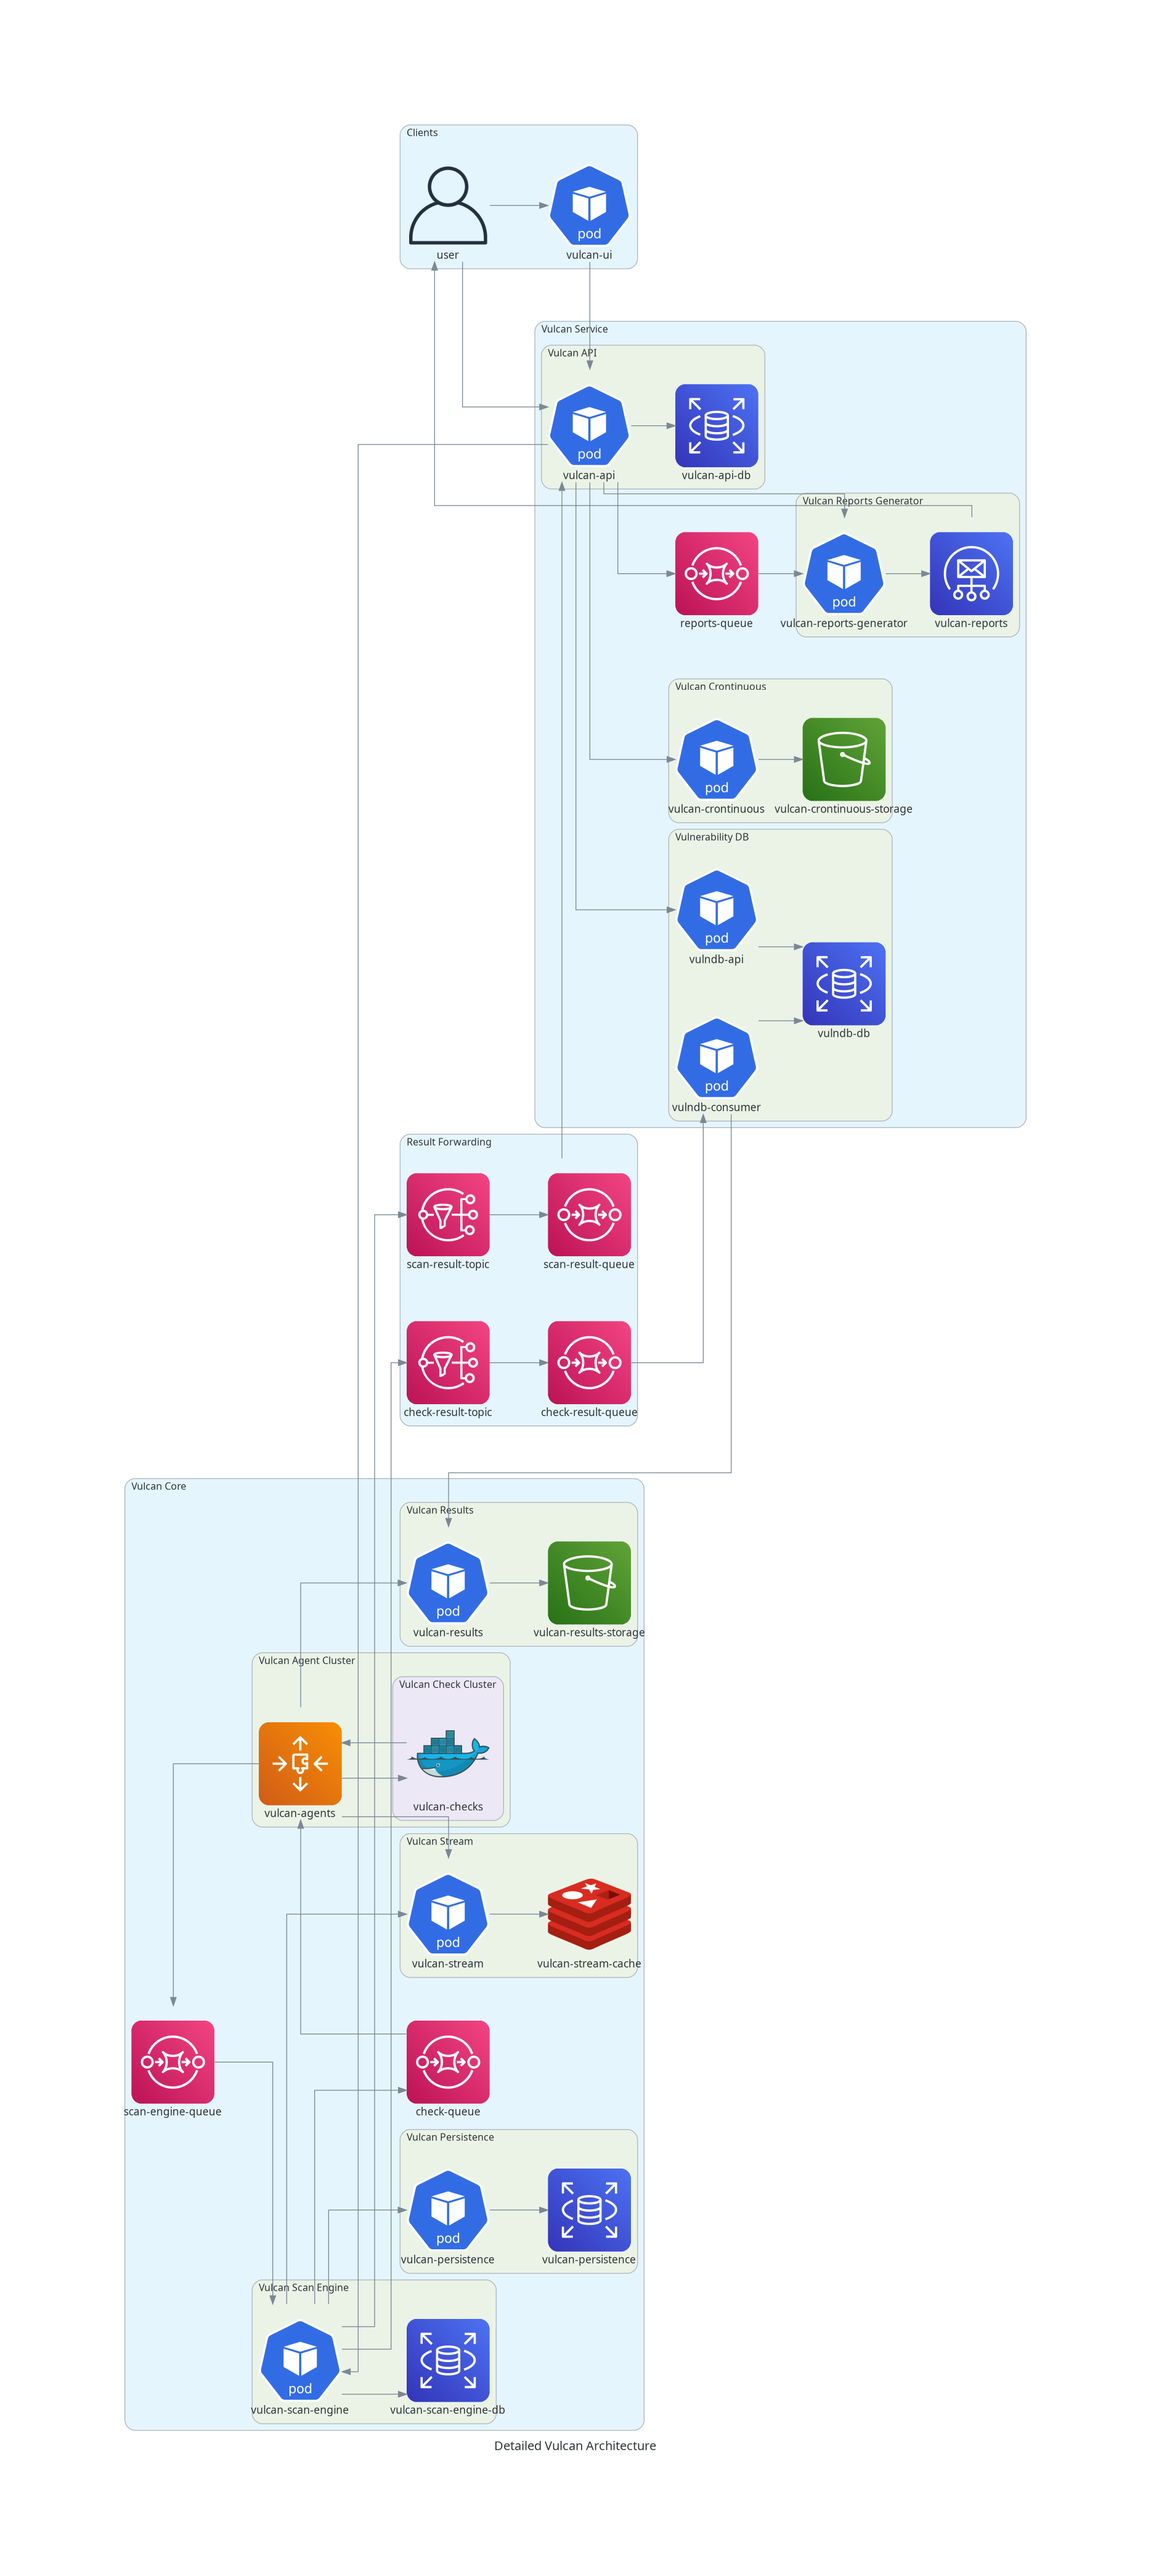
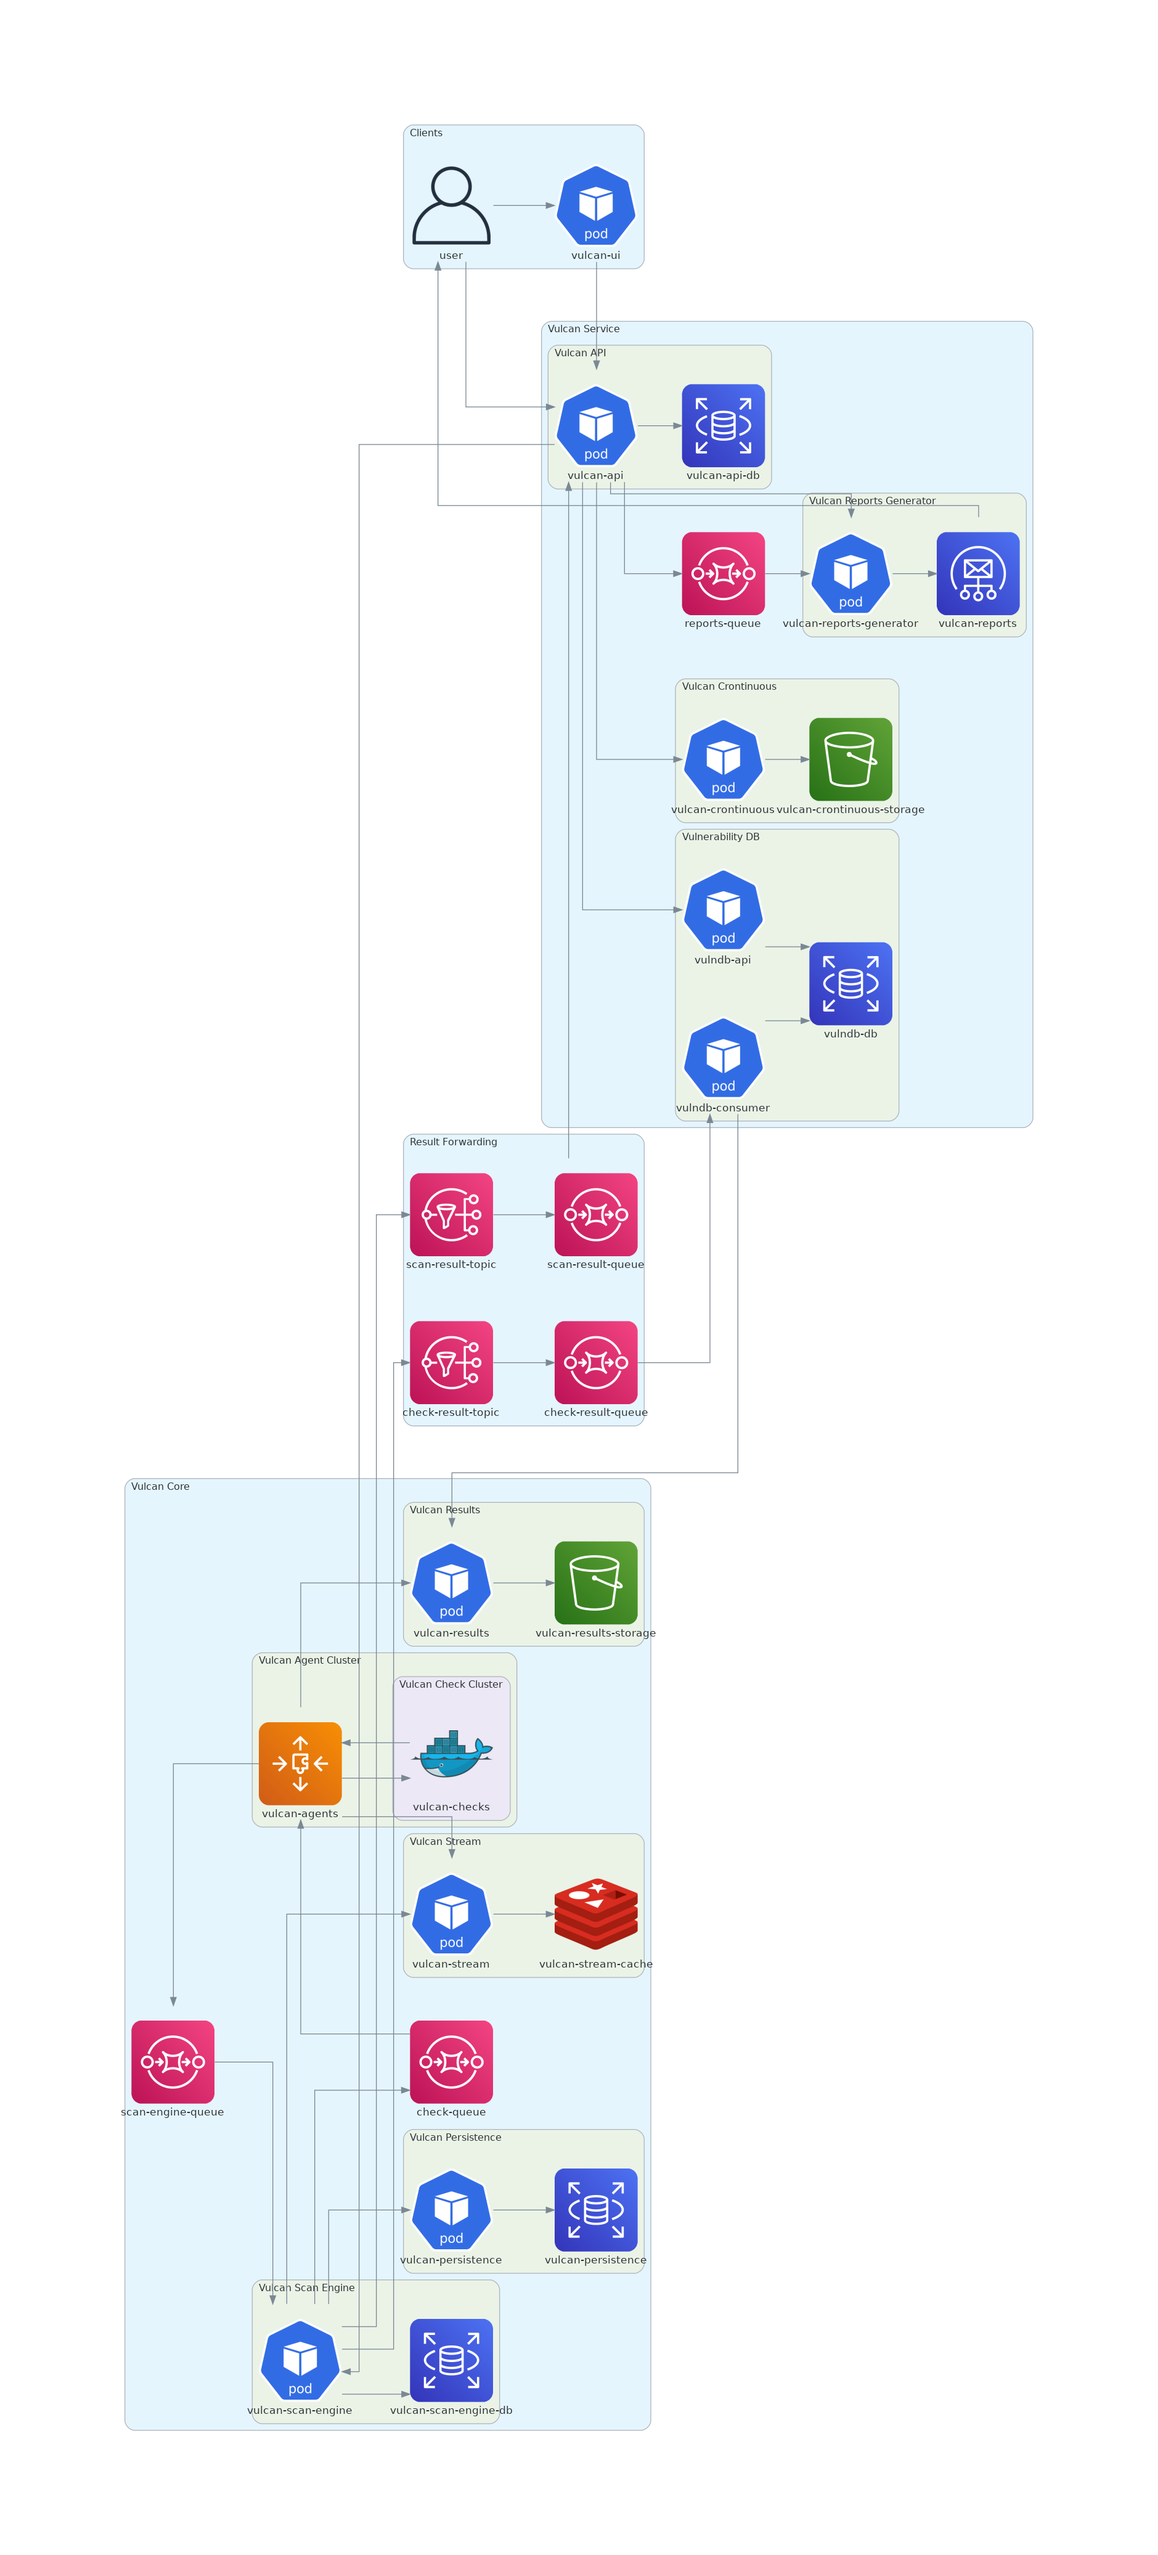
Add data model diagrams and improve existing ones (#4)
* Add data model diagrams for Vulnerability DB and Vulcan API.
* Improve the size of diagrams by hiding the table of contents.
* Add missing licenses for the tools used to draw diagrams.
* Use correct boxes for flow diagram processes.
* Remove annoying diagram footers.

diff --git a/diagrams/detailed-architecture.py b/diagrams/detailed-architecture.py
@@ -11,7 +11,7 @@ from diagrams.aws.integration import SNS, SQS
 from diagrams.onprem.container import Docker
 from diagrams.onprem.inmemory import Redis
 
-with Diagram("Detailed Vulcan Architecture", outformat="png", filename="docs/img/detailed-architecture", show=False):
+with Diagram("", outformat="png", filename="docs/img/detailed-architecture", show=False):
         with Cluster("Clients"):
                 user = User("user")
                 vulcan_ui = Pod("vulcan-ui")

diff --git a/diagrams/simplified-architecture.py b/diagrams/simplified-architecture.py
@@ -7,7 +7,7 @@ from diagrams.aws.database import RDS
 from diagrams.aws.integration import SQS, SNS
 from diagrams.onprem.container import Docker
 
-with Diagram("Simplified Vulcan Architecture", outformat="png", filename="docs/img/simplified-architecture", show=False):
+with Diagram("", outformat="png", filename="docs/img/simplified-architecture", show=False):
         result_queue = SQS("result-queue")
 
         with Cluster("Agents"):

diff --git a/docs/data-models.md b/docs/data-models.md
@@ -1,0 +1,275 @@
+---
+hide:
+  - toc
+---
+
+# Data Models
+
+## Vulnerability DB
+
+```mermaid
+erDiagram
+    issues {
+        text id "PK"
+        text summary
+        int cwe_id
+        text description
+        text_array recomendations
+        text_array reference_links 
+    }
+    issue_labels {
+        text issue_id "PK, FK"
+        text label "PK, FK"
+    }
+    findings {
+        text id "PK"
+        text issue_id "FK"
+        text target_id "FK"
+        text status
+        text details
+        jsonb resources
+        float score
+        text impact_details
+        text affected_resource
+        text fingerprint
+    }
+    finding_events {
+      text id "PK"
+      text finding_id "FK"
+      text source_id "FK"
+      time time
+      float score
+      text details
+      jsonb resources
+      text fingerprint
+    }
+    finding_exposures {
+      text finding_id "PK, FK"
+      time found_at "PK"
+      time fixed_at
+      int ttr
+      time expired_at
+    }
+    sources {
+      text id "PK"
+      text name
+      text component
+      text instance
+      text options
+      time time
+      text target_id "FK"
+    }
+    source_issues {
+      text source_id "PK, FK"
+      text issue_id "PK, FK"
+    }
+    last_sources {
+      text finding_id "PK, FK"
+      text source_id "FK"
+    }
+    targets {
+      text id "PK"
+      text identifier
+    }
+    target_tags {
+      text target_id "PK, FK"
+      text tag "PK"
+    }
+    target_teams {
+      text target_id "PK, FK"
+      text team_id "PK"
+    }
+    targets ||--o{ target_tags : ""
+    targets ||--o{ target_teams : ""
+    targets ||--o{ findings : ""
+    targets ||--o{ sources : ""
+    sources ||--o{ source_issues : ""
+    sources ||--o{ last_sources : ""
+    issues ||--o{ source_issues : ""
+    issues ||--o{ findings : ""
+    issues ||--o{ issue_labels : ""
+    findings ||--o{ finding_events : ""
+    findings ||--o{ finding_exposures : ""
+    findings ||--|| last_sources : ""
+```
+
+## Vulcan API
+
+```mermaid
+erDiagram
+    teams {
+        uuid id "PK"
+        text name
+        text description
+        time created_at
+        time updated_at
+        text tag
+    }
+    user_team {
+        uuid user_id "PK, FK"
+        uuid team_id "PK, FK"
+        text role
+        time created_at
+        time updated_at
+    }
+    users {
+        uuid id "PK"
+        text firstname
+        text lastname
+        text email
+        text api_token
+        bool active
+        bool admin
+        time created_at
+        time updated_at
+        time last_login
+        bool observer
+    }
+    finding_overwrites {
+      uuid id "PK"
+      uuid user_id "FK"
+      uuid finding_id
+      text status
+      text status_previous
+      text notes
+      text tag
+      time created_at
+    }
+    recipients {
+        uuid team_id "PK, FK"
+        text email "PK"
+        time created_at
+        time updated_at
+    }
+    assets {
+        uuid id "PK"
+        uuid team_id "FK"
+        uuid asset_type_id "FK"
+        text identifier
+        text options
+        text environmental_cvss
+        bool scannable
+        time created_at
+        time updated_at
+        text rolfp
+        time created_at
+        text alias
+    }
+    asset_annotations {
+        uuid asset_id "PK, FK"
+        text key "PK"
+        text value
+        time created_at
+        time updated_at
+    }
+    asset_types {
+        uuid id "PK"
+        text name
+    }
+    asset_group {
+        uuid asset_id "PK, FK"
+        uuid group_id "PK, FK"
+        time created_at
+        time updated_at
+    }
+    groups {
+        uuid id "PK"
+        uuid team_id "FK"
+        text name
+        text options
+        time created_at
+        time updated_at
+        text description
+    }
+    policies {
+        uuid id "PK"
+        uuid team_id "FK"
+        text name
+        bool global
+        time created_at
+        time updated_at
+        text description
+    }
+    checktype_settings {
+        uuid id "PK"
+        uuid policy_id "FK"
+        text check_type_name
+        text options
+        time created_at
+        time updated_at
+    }
+    programs {
+        uuid id "PK"
+        text name
+        text cron
+        time created_at
+        time updated_at
+        bool autosend
+        uuid team_id "FK"
+        bool disabled
+    }
+    programs_groups_policies {
+        uuid program_id "PK, FK"
+        uuid policy_id "PK, FK"
+        uuid group_id "PK, FK"
+    }
+    global_programs_metadata {
+        uuid team_id "PK, FK"
+        text program "PK"
+        bool autosend
+        time created_at
+        time updated_at
+        text cron
+        bool disabled
+    }
+    jobs {
+      uuid id "PK"
+      uuid team_id "FK"
+      text operation
+      text status
+      jsonb result
+      time created_at
+      time updated_at
+    }
+    teams ||--o{ user_team : ""
+    teams ||--o{ policies : ""
+    teams ||--o{ programs : ""
+    teams ||--o{ groups : ""
+    teams ||--o{ recipients : ""
+    teams ||--o{ assets : ""
+    teams ||--o{ global_programs_metadata : ""
+    teams ||--o{ jobs : ""
+    users ||--o{ finding_overwrites : ""
+    users ||--o{ user_team : ""
+    assets ||--o{ asset_group : ""
+    assets ||--o{ asset_annotations : ""
+    assets }o--|| asset_types : ""
+    policies ||--o{ checktype_settings : ""
+    policies ||--o{ programs_groups_policies : ""
+    programs ||--o{ programs_groups_policies : ""
+    groups ||--o{ programs_groups_policies : ""
+    groups ||--o{ asset_group : ""
+```
+
+```mermaid
+erDiagram
+    audit {
+        int id
+        time date
+        text schema
+        text tablename
+        text operation
+        text who
+        jsonb new_val
+        jsonb old_val
+    }
+    outbox {
+        uuid id "PK"
+        text operation
+        int version
+        jsonb data
+        int retries
+        time created_at
+        time updated_at
+    }
+```

diff --git a/docs/architecture.md b/docs/architecture.md
@@ -1,3 +1,8 @@
+---
+hide:
+  - toc
+---
+
 # Architecture
 
 ## Simplified Architecture
@@ -19,14 +24,15 @@ Notably absent from this diagram are the following elements:
 - User interfaces such as the [Vulcan UI](https://github.com/adevinta/vulcan-ui), the [Vulcan Core CLI](https://github.com/adevinta/vulcan-core-cli), [Vulcan Local](https://github.com/adevinta/vulcan-local/)...
 - Communication performed by specific checks requiring third-party services.
 - Network devices (balancers, proxies, gateways...) necessary for communication.
+- Communication interfaces such as message queues, notification topics and [stream](https://github.com/adevinta/vulcan-stream).
 - Simple microservices ([result storage](https://github.com/adevinta/vulcan-results), [check inventory](https://github.com/adevinta/vulcan-persistence), [metrics](https://github.com/adevinta/vulcan-metrics)...) used for specific tasks.
-- [WebSocket stream](https://github.com/adevinta/vulcan-stream) for pushing commands (abort, scale...) from scan engine to the agents.
 - Specific runtimes (e.g. AWS, Kubernetes, GCP...) that the components can run inside of.
-
-For a detailed list of all the components involved in Vulcan, see the [repositories](/repositories/) page.
 
 ## Detailed Architecture
 
-This diagram shows a detailed architecture of Vulcan working in Kubernetes and AWS.
+This diagram shows a more detailed architecture of Vulcan working in Kubernetes and AWS.
+
+For a complete list of all the components involved in Vulcan, see the [repositories](/repositories/) page.
 
 [![Vulcan Detailed Architecture](img/detailed-architecture.png)](img/detailed-architecture.png)
+

diff --git a/docs/vulnerability-management.md b/docs/vulnerability-management.md
@@ -49,20 +49,20 @@ False positives are flagged manually by the user using the Vulcan API or the UI.
 ``` mermaid
 graph LR
   A[Scan] --> B{Finding found?};
-  B -->|Yes| H{Flagged as false positive?}
-  H -->|Yes| I{Fingerprint changed?}
-  I -->|No| J[FALSE_POSITIVE]
+  B --> |Yes| H{Flagged false positive?}
+  H --> |Yes| I{Fingerprint changed?}
+  I --> |No| J(FALSE_POSITIVE)
   J --> K{User re-opens?}
   K --> |No| G
   K --> |Yes| C
-  I -->|Yes| C
-  H -->|No| C[OPEN];
-  B -->|No| D[FIXED];
+  I --> |Yes| C
+  H --> |No| C(OPEN);
+  B --> |No| D(FIXED);
   B --> |Inconclusive, unreachable...| E{Did 90 days pass?};
-  E -->|Yes| F[EXPIRED]
-  E -->|No| G{Wait for next scan..}
-  B --> G
+  E --> |Yes| F(EXPIRED)
+  E --> |No| G[Wait for next scan..]
   C --> G
+  D --> G
   F --> G
   G --> A
 ```

diff --git a/LICENSES.md b/LICENSES.md
@@ -1,3 +1,13 @@
+# Licenses
+
+## Other Licenses
+
+- **Graphviz**: Eclipse Public License
+- **Mermaid.js**: MIT
+
+## Python Licenses
+
+```
 +------------------------------------+--------------------------------------------------------------+
 |              Package               |                           License                            |
 +------------------------------------+--------------------------------------------------------------+
@@ -65,3 +75,4 @@
 |         webencodings 0.5.1         |                             BSD                              |
 |             zipp 3.8.1             |                         MIT License                          |
 +------------------------------------+--------------------------------------------------------------+
+```

diff --git a/docs/vulcan-api.md b/docs/vulcan-api.md
@@ -1,3 +1,8 @@
+---
+hide:
+  - toc
+---
+
 # Vulcan API
 
 !!swagger-http https://raw.githubusercontent.com/adevinta/vulcan-api/master/docs/swagger.json!!
